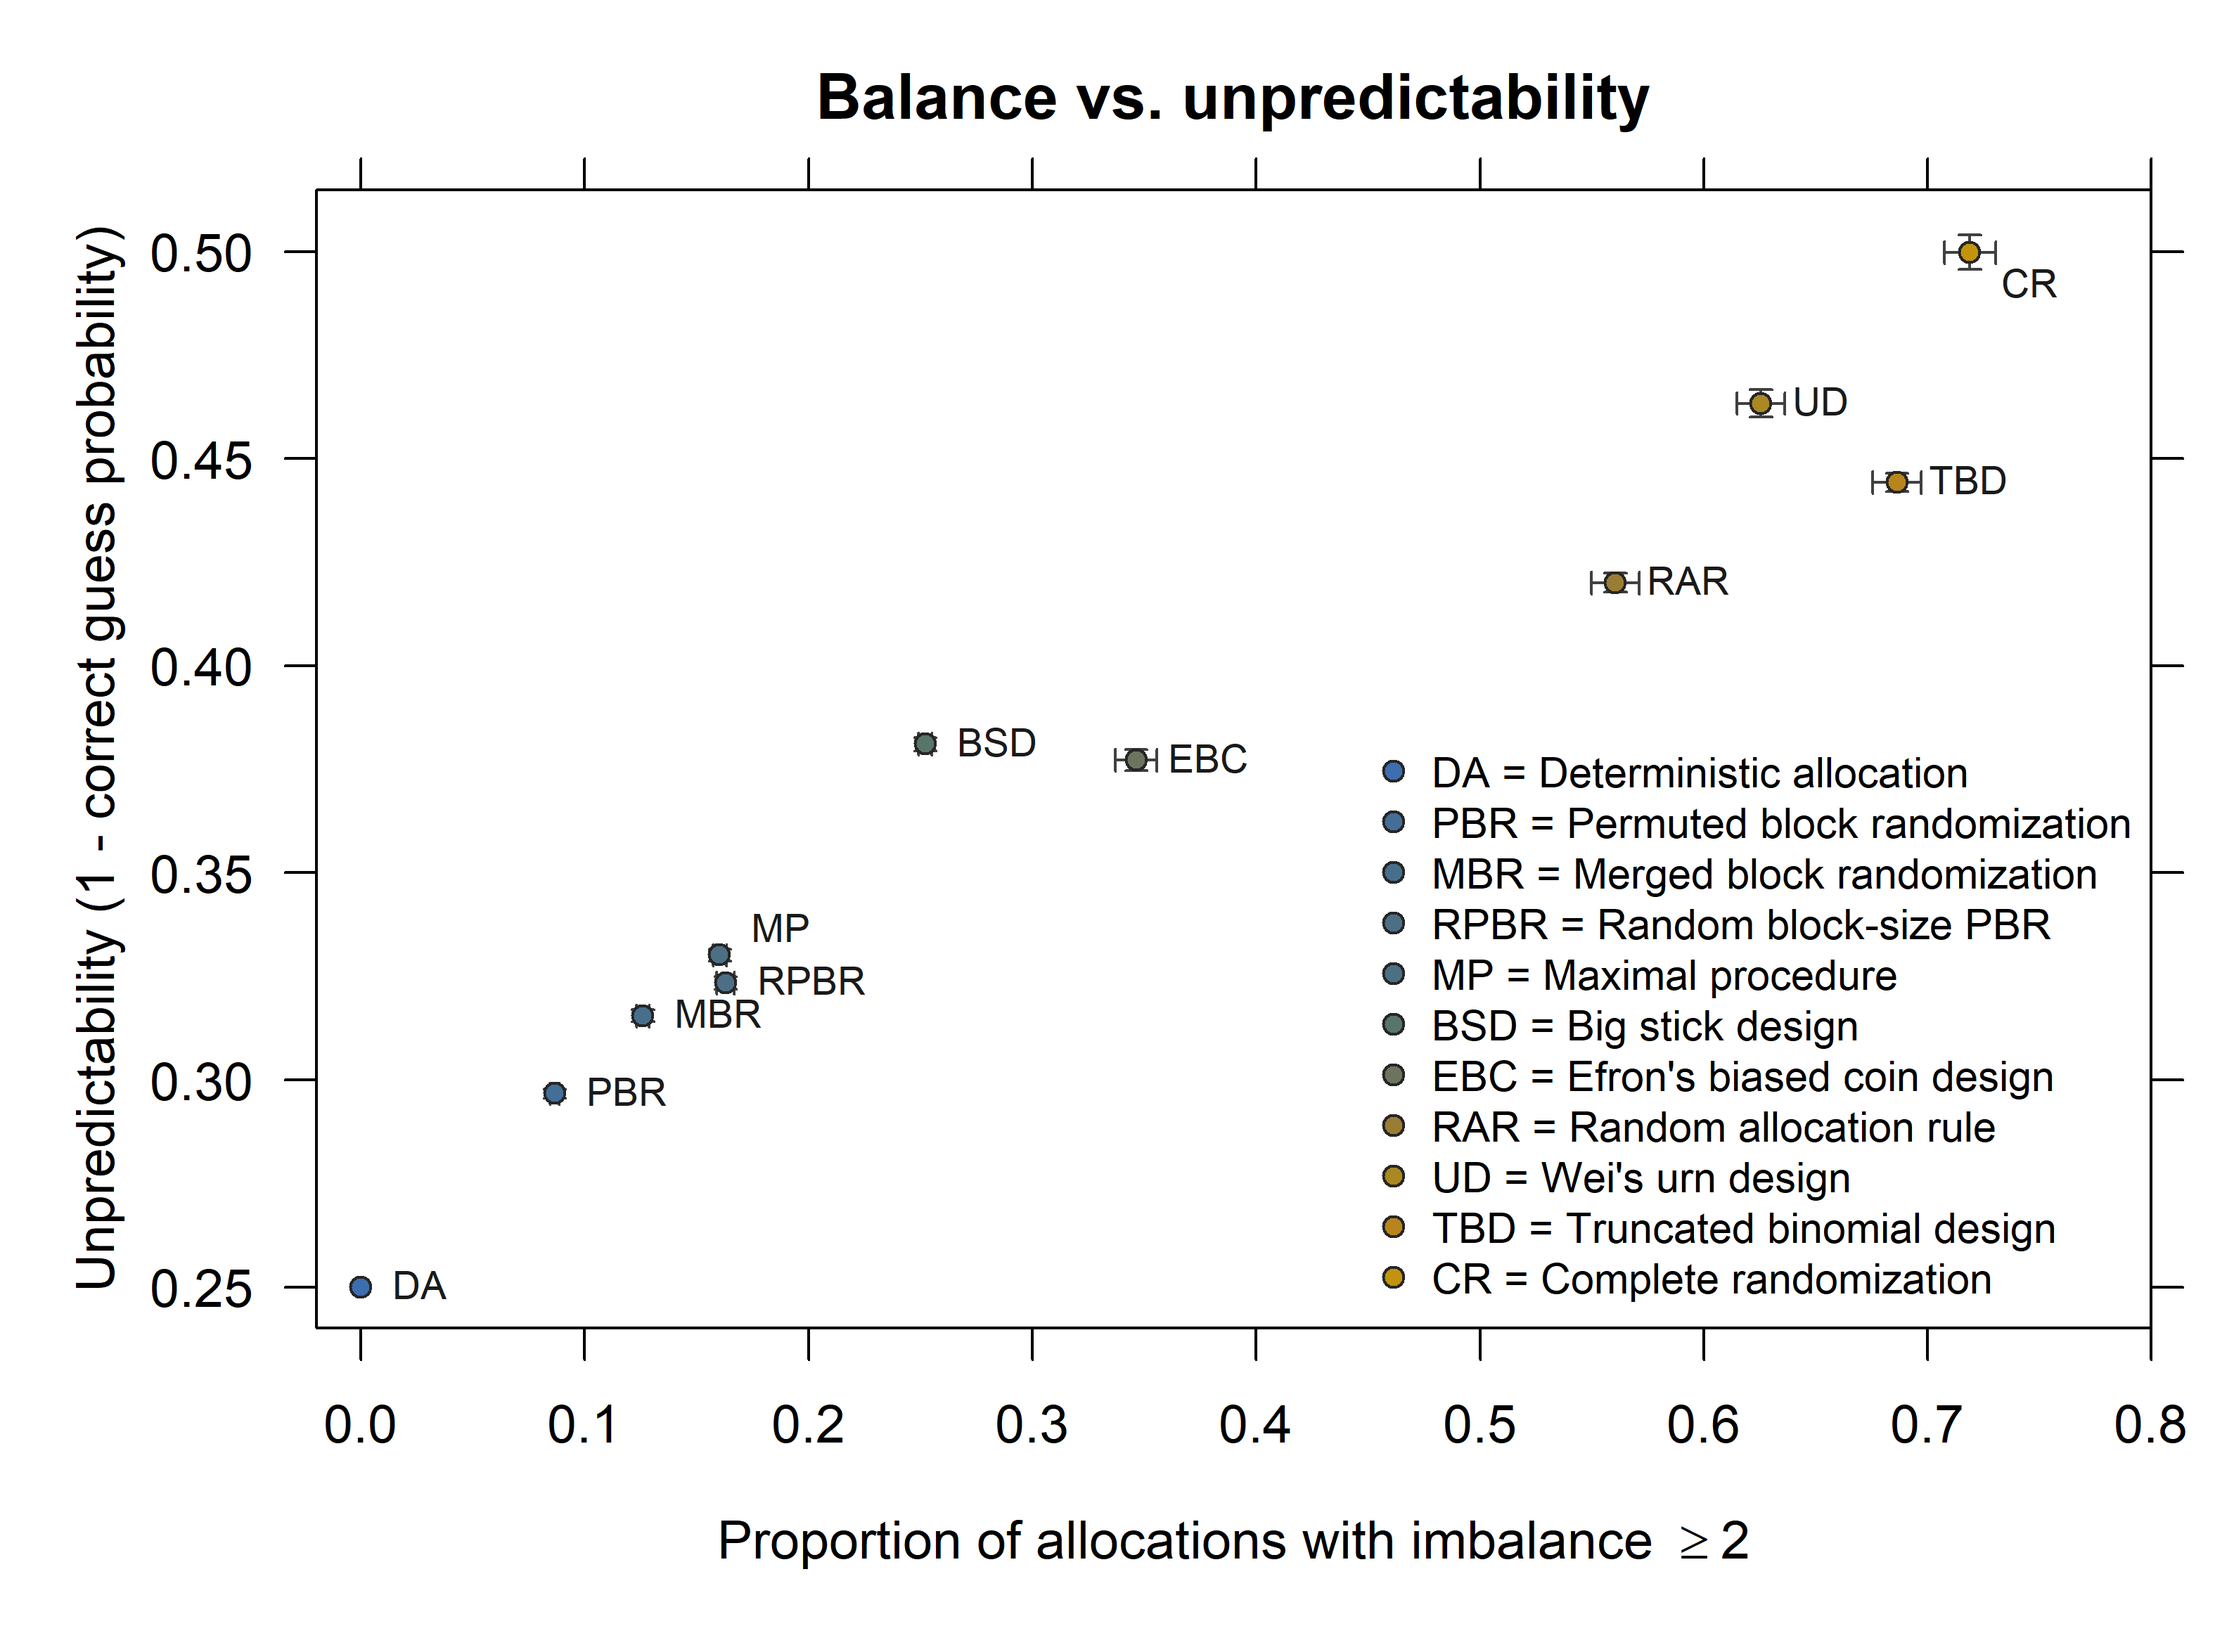
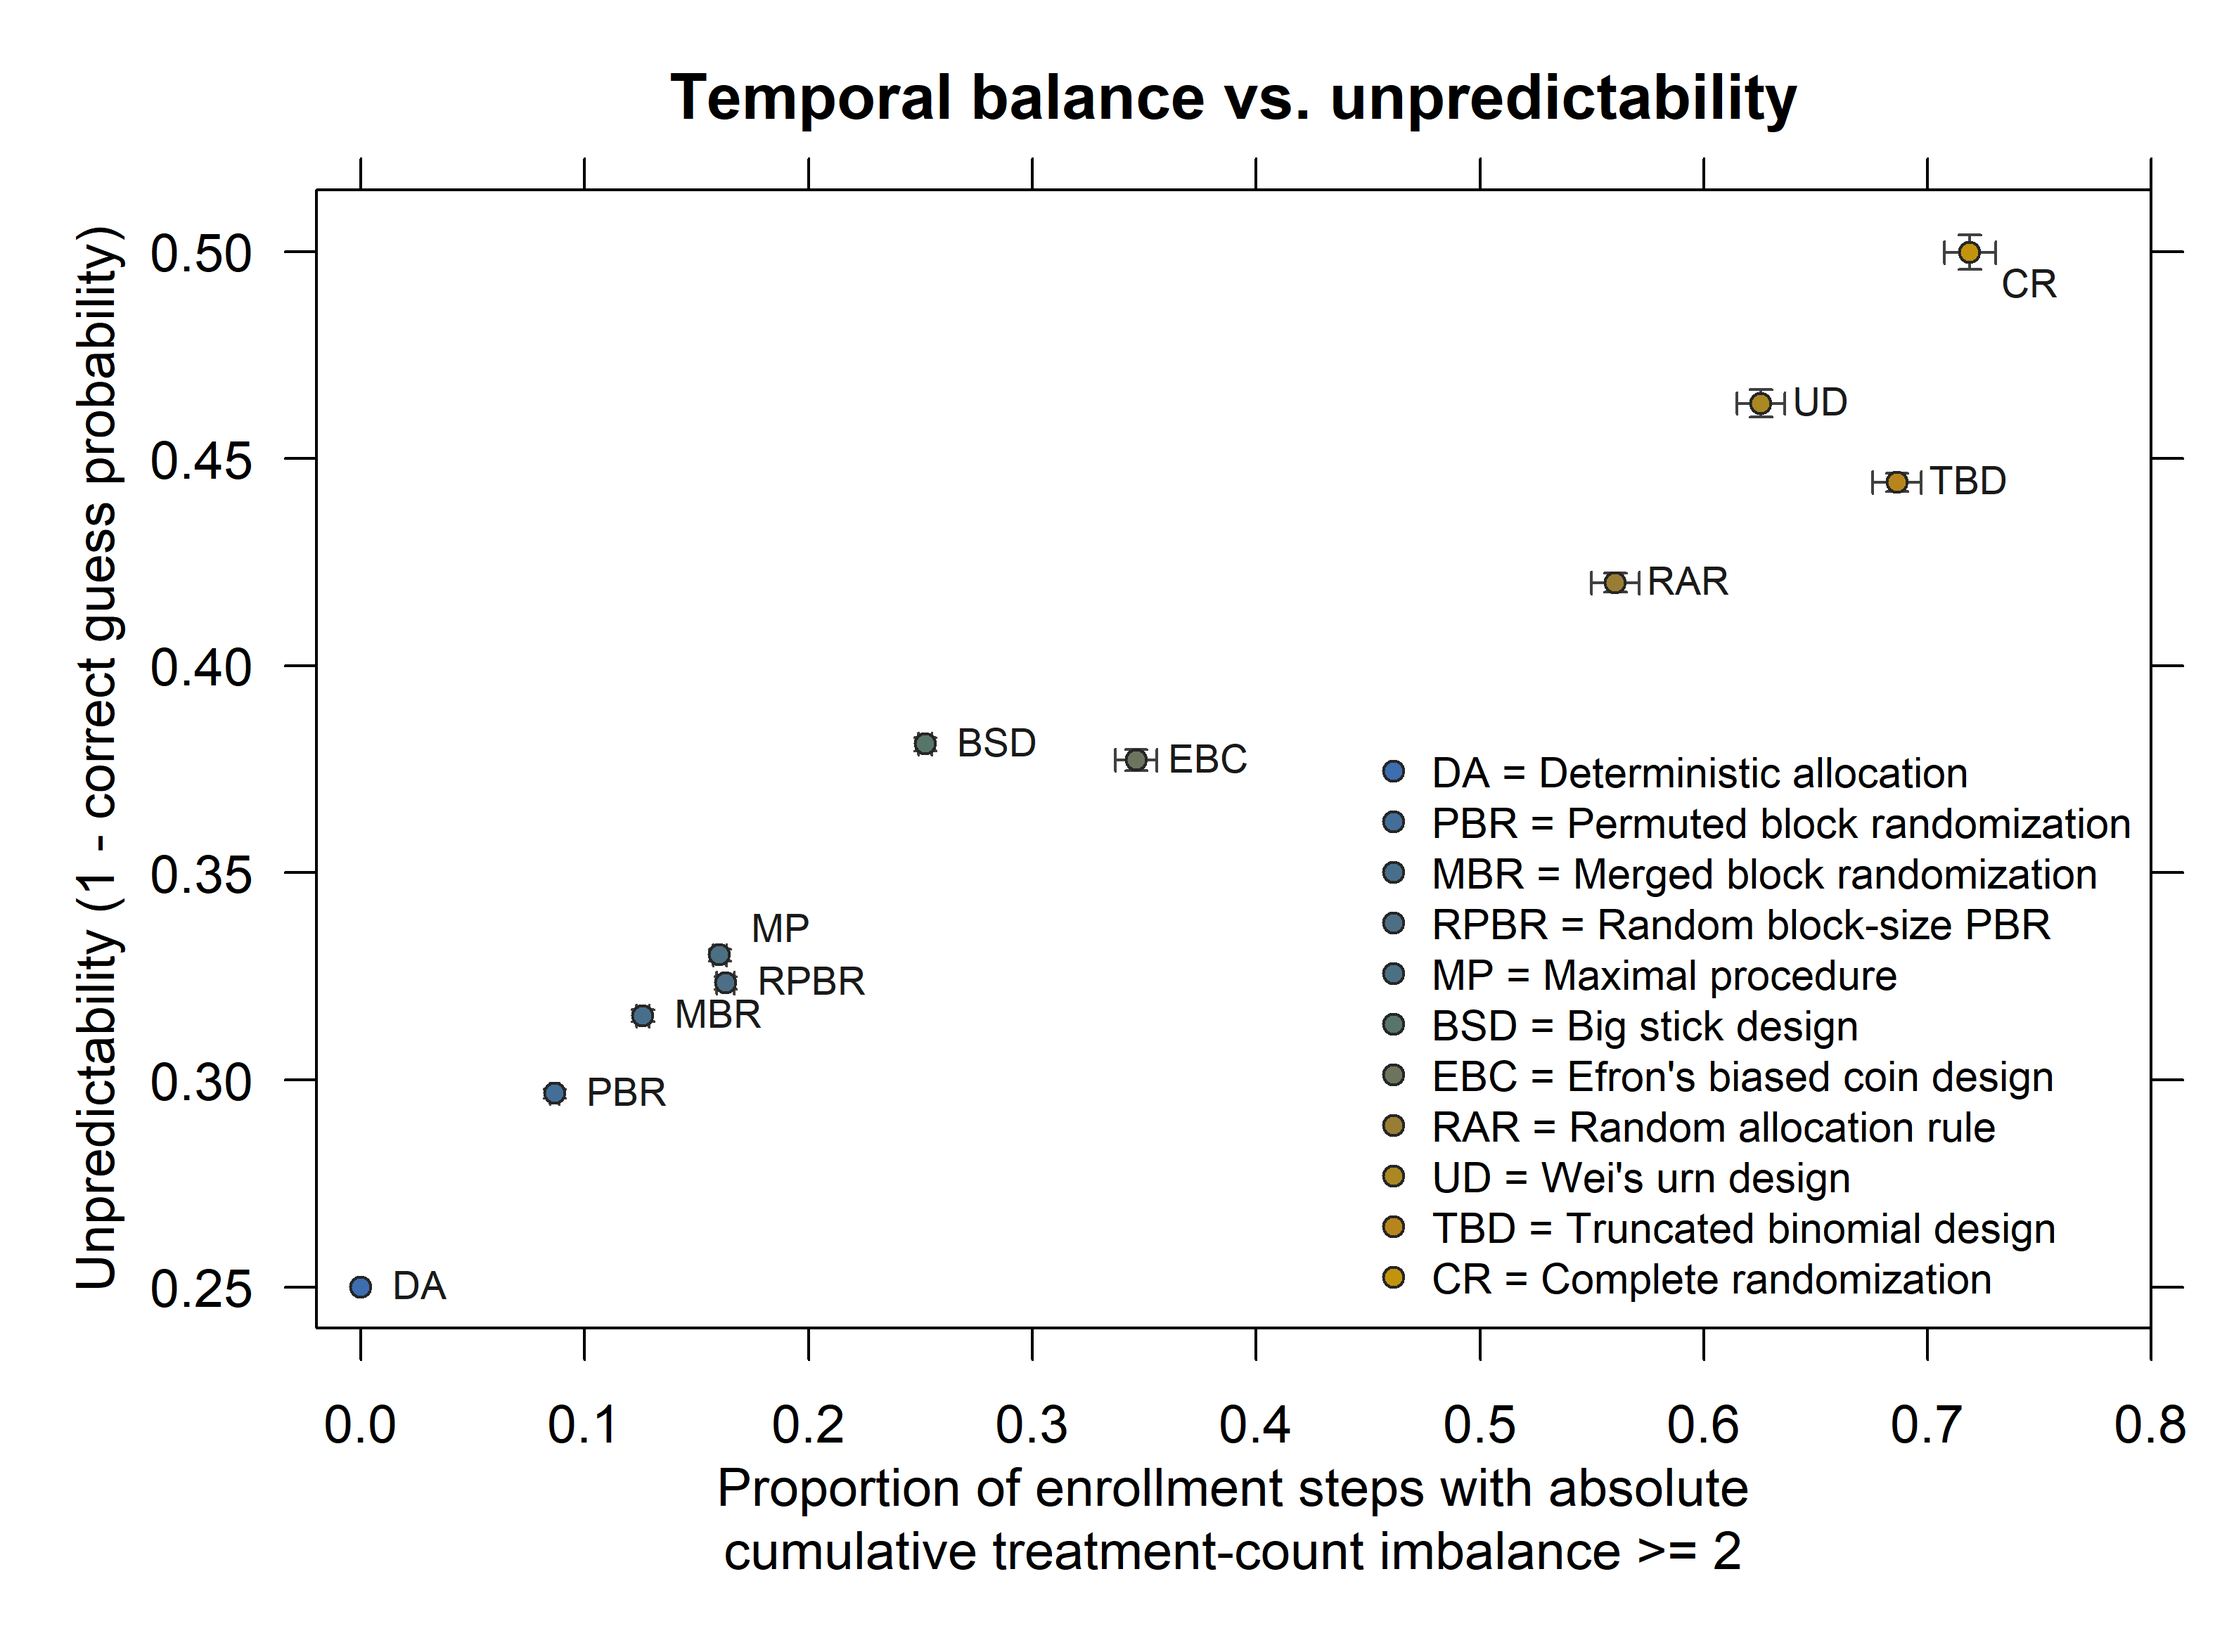
Clarify temporal balance and cumulative count imbalance measures

Changed region(s): [[0.3111, 0.8735, 0.8089, 0.9671], [0.3111, 0.0312, 0.8089, 0.0936]]

diff --git a/figure1_balance_unpredictability/index.html b/figure1_balance_unpredictability/index.html
@@ -56,7 +56,7 @@
   <p>
     This page explains the procedures, simulation, and source code for Figure 1 in
     <em>Choosing and Evaluating Randomization Procedures: A Tutorial</em>.
-    The figure compares treatment allocation imbalance and
+    The figure compares temporal balance and
     unpredictability for complete and restricted randomization procedures in a
     single-center trial with <code>n = 50</code>.
   </p>
@@ -67,13 +67,20 @@
     or view the regenerated figure below.
   </p>
 
-  <img src="balance_unpred_gradient_check.png" alt="Balance versus unpredictability plot with Monte Carlo error bars">
+  <img src="balance_unpred_gradient_check.png" alt="Proportion of enrollment steps with absolute cumulative treatment-count imbalance of at least two versus unpredictability, with Monte Carlo error bars">
 
   <h2>How the Figure Is Constructed</h2>
   <p>
+    Temporal imbalance describes unequal treatment representation across
+    recruitment periods. Here, temporal balance is assessed using a summary of
+    cumulative treatment-count imbalance: the difference between the numbers
+    assigned to A and B after each enrollment. This summary uses enrollment
+    order; it does not explicitly model calendar time.
+  </p>
+  <p>
     For each randomization procedure, the script simulates <code>M = 1000</code>
     independent allocation sequences. Each sequence is summarized once for the
-    proportion of allocations where the absolute running treatment-count
+    proportion of enrollment steps where the absolute cumulative treatment-count
     imbalance is at least 2, and once for unpredictability, defined as
     <code>1 - correct guess probability</code> under the Blackwell-Hodges
     convergence guessing strategy.
@@ -133,8 +140,8 @@
       Recruitment stops at 50, potentially leaving an incomplete block.</dd>
     <dt>MP: Maximal procedure</dt>
     <dd>Give equal probability to all length-50 sequences that end with
-      25 assignments per treatment and never let the absolute running count
-      difference exceed two. Unlike permuted blocks, this does not require
+      25 assignments per treatment and never let the absolute cumulative
+      treatment-count imbalance exceed two. Unlike permuted blocks, this does not require
       balance at regularly spaced block boundaries.</dd>
     <dt>EBC: Efron's biased coin design</dt>
     <dd>Use probability 1/2 for each treatment when counts are equal.
@@ -146,14 +153,15 @@
       The changing urn composition favors the underrepresented treatment,
       with the strength of that preference depending on the allocation history.</dd>
     <dt>BSD: Big stick design</dt>
-    <dd>Use equal assignment probabilities while the absolute count difference
-      is below two. At the boundary of two, force the next assignment toward
+    <dd>Use equal assignment probabilities while the absolute cumulative
+      treatment-count imbalance is below two. At the boundary of two, force the next assignment toward
       balance. Final balance is not required.</dd>
     <dt>MBR: Merged block randomization</dt>
     <dd>Generate two independent streams of balanced blocks of size two
       (AB or BA). At each step, randomly choose either stream with probability
       1/2 and take its next unused assignment. Merging hides the original block
-      boundaries while keeping the absolute running imbalance at most two.</dd>
+      boundaries while keeping the absolute cumulative treatment-count
+      imbalance at most two.</dd>
   </dl>
   <p>
     The package-based procedures use <a href="https://cran.r-project.org/package=randomizeR">randomizeR</a>;

diff --git a/figure1_balance_unpredictability/README.md b/figure1_balance_unpredictability/README.md
@@ -5,6 +5,13 @@ Figure 1 in *Choosing and Evaluating Randomization Procedures: A Tutorial*.
 The [Figure 1 information page](https://katatam.github.io/randomization/figure1_balance_unpredictability/)
 explains each of the 11 plotted procedures and its simulation settings.
 
+Temporal imbalance describes unequal treatment representation across recruitment
+periods. The figure assesses temporal balance using cumulative treatment-count
+imbalance: the difference between the numbers assigned to A and B after each
+enrollment. The horizontal coordinate is the proportion of enrollment steps
+with an absolute cumulative treatment-count imbalance of at least two.
+This summary uses enrollment order; it does not explicitly model calendar time.
+
 Files:
 
 - `figure1_balance_unpredictability_mcse.R`: R script used to simulate the

diff --git a/README.md b/README.md
@@ -19,6 +19,9 @@ Published app URLs:
 
 Short explanations of all 11 plotted procedures, their settings, the simulation
 methods, and source code for Figure 1 are in `figure1_balance_unpredictability/`.
+The figure assesses temporal balance through the proportion of enrollment steps
+with absolute cumulative treatment-count imbalance of at least two, alongside
+unpredictability.
 
 Published page:
 
